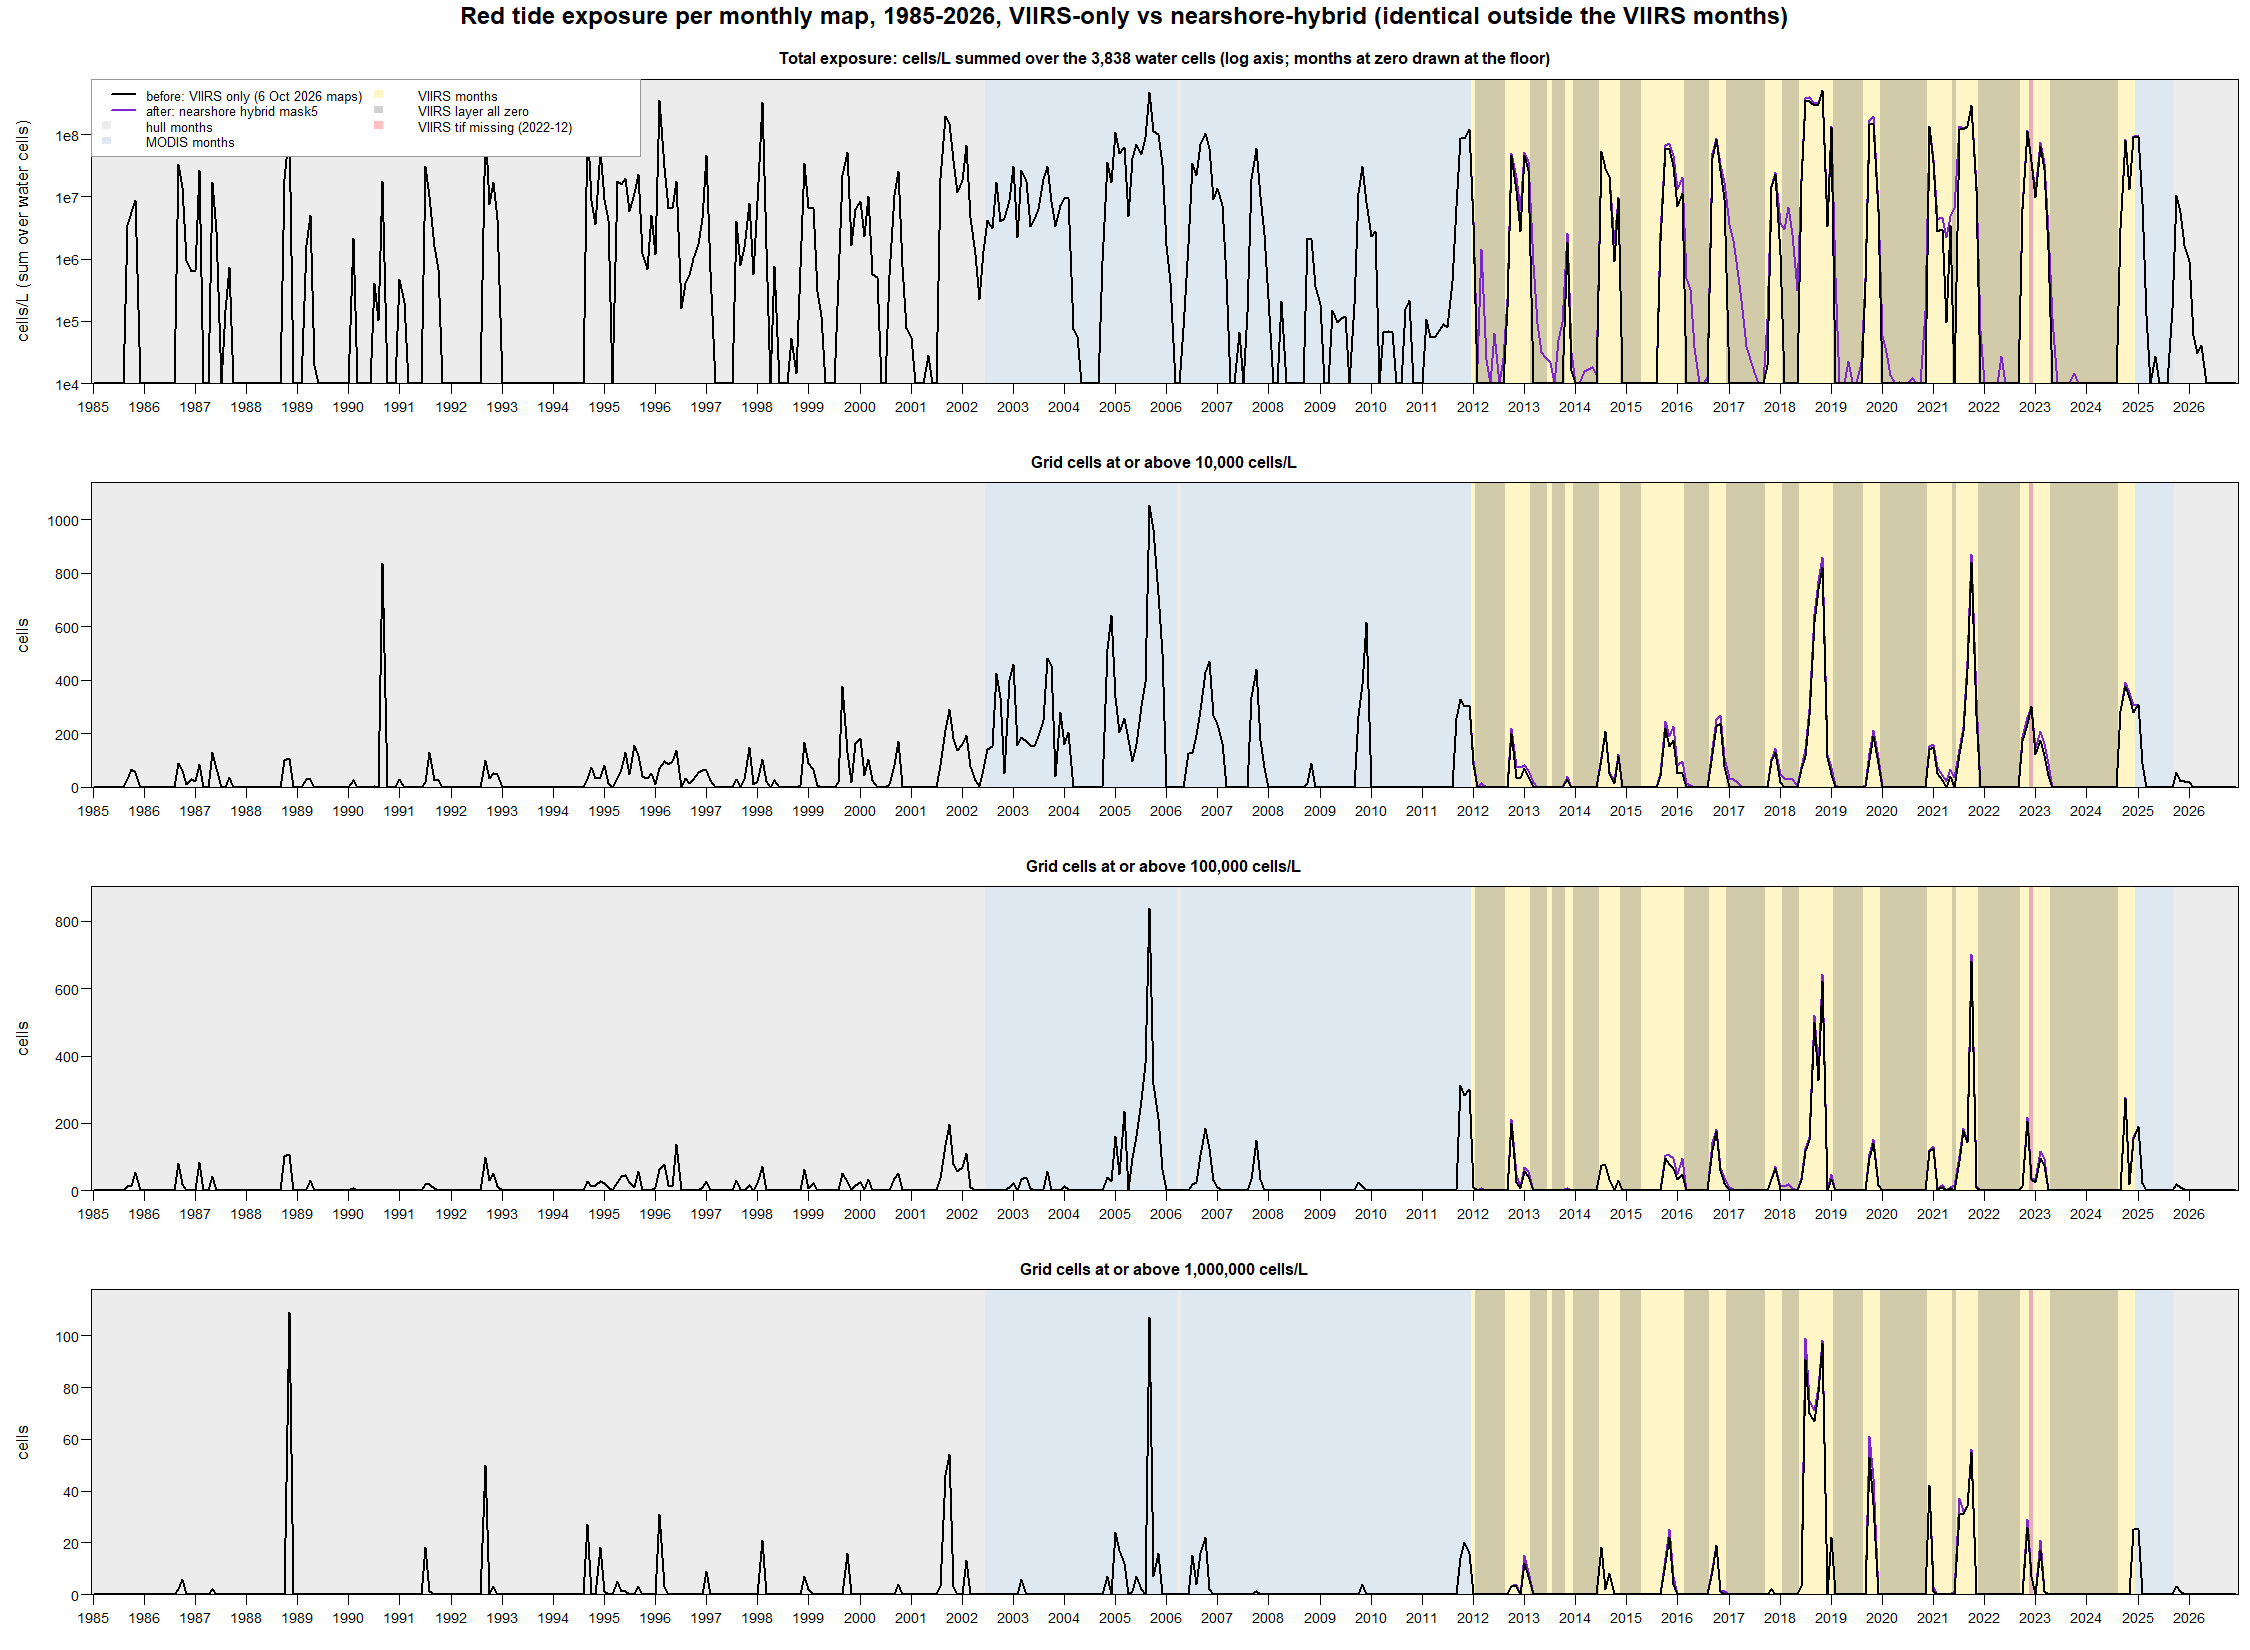
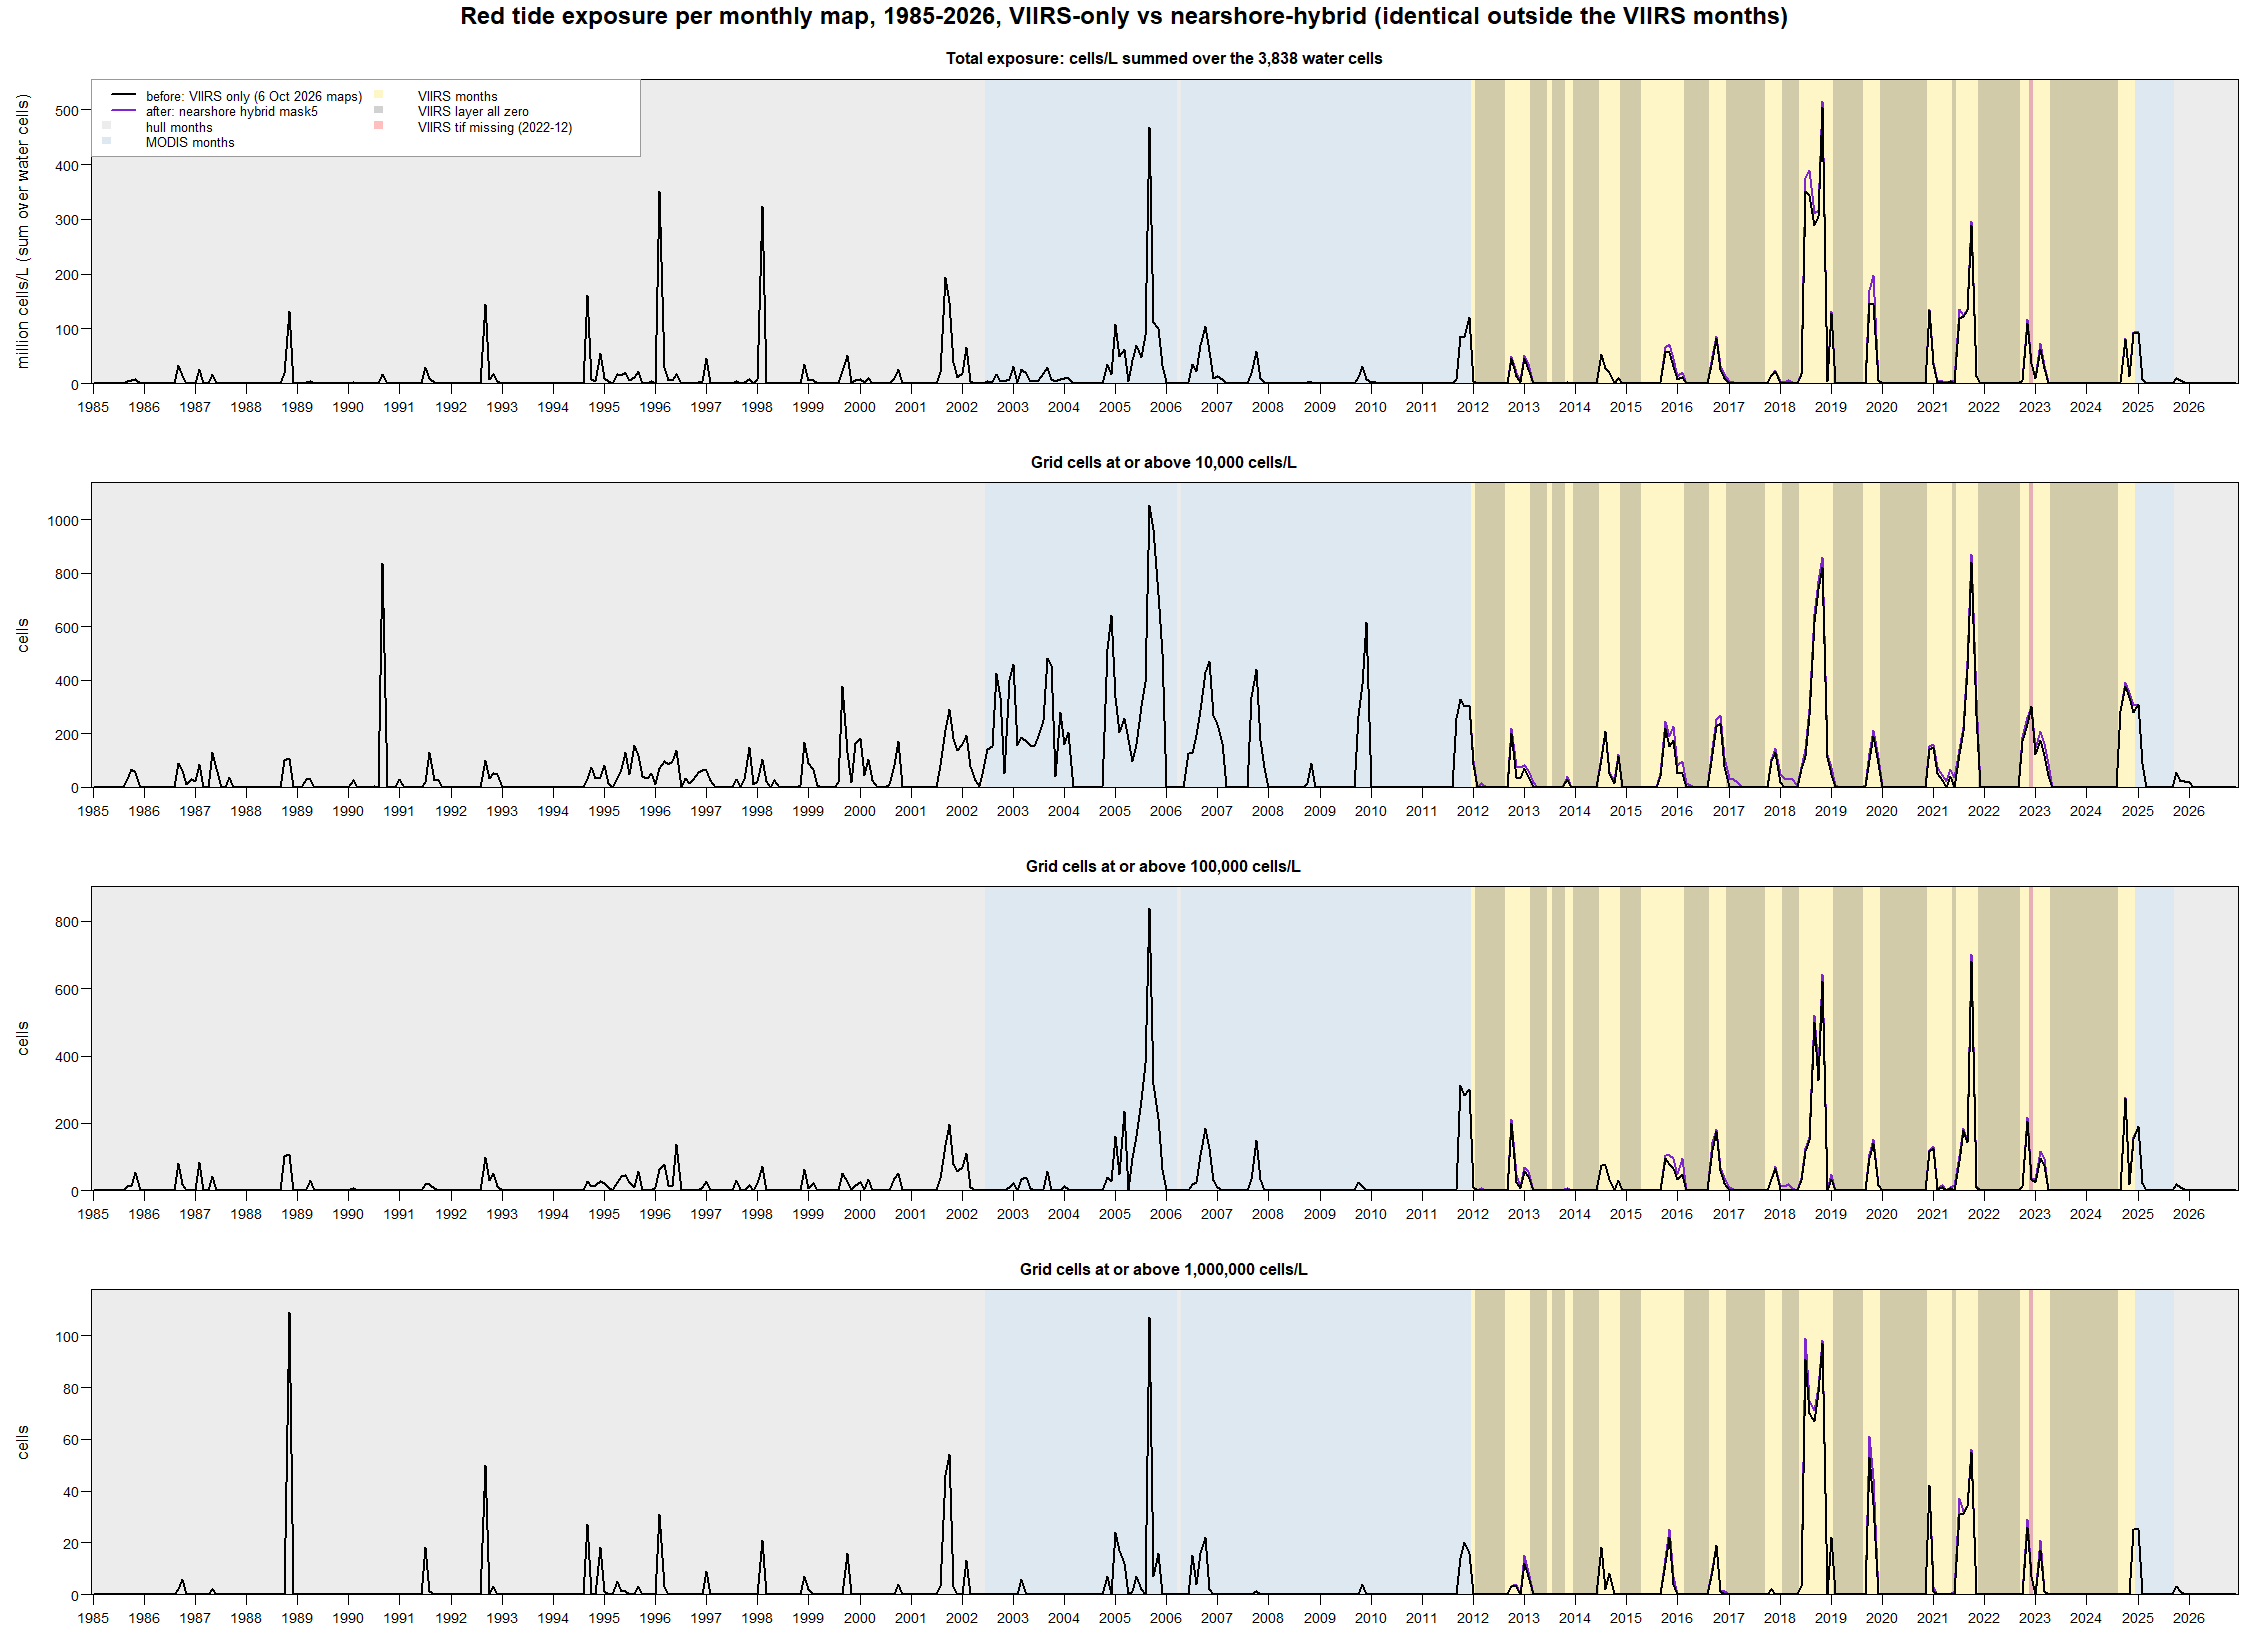
qa: draw total exposure on a linear axis (millions of cells/L) in the issue #11 exposure figures
Holden asked for a normal scale on the top panel of figs 4 and 5; the log axis and its floor for zero months are gone. Tables unchanged.

diff --git a/docs/issue11_nearshore-hybrid-pipeline/README.md b/docs/issue11_nearshore-hybrid-pipeline/README.md
@@ -44,7 +44,7 @@ The `compare` stage reads the combined stacks and `clipping_source.csv` of the t
 | `tables/exposure_months_issue11.csv` | all 504 months 1985-2026, before and after: total exposure (cells/L summed over the 3,838 water cells), cells and km2 at or above 10,000 / 100,000 / 1,000,000 cells/L, max, clip source, whether the hybrid changed the month |
 | `tables/exposure_annual_issue11.csv`, `tables/exposure_climatology_issue11.csv`, `tables/exposure_groups_issue11.csv` | the same summed by year (cell-months), averaged by calendar month over 2012-2024, and summed by month group (all 504; hull, MODIS, VIIRS; zeroed, headline, VIIRS-positive fitted) |
 | `tables/exposure_cells_issue11.csv` | per water cell over the 155 VIIRS months: cumulative exposure and cell-months at or above 100,000 and 1,000,000 cells/L, before and after |
-| `figures/fig4_exposure_1985-2026_issue11.png`, `figures/fig5_exposure_2012-2024_issue11.png` | total exposure (log axis) and the three cell counts per month, before vs after, over the full record (clip source shaded) and over the VIIRS era (all-zero VIIRS months shaded) |
+| `figures/fig4_exposure_1985-2026_issue11.png`, `figures/fig5_exposure_2012-2024_issue11.png` | total exposure (millions of cells/L, linear axis) and the three cell counts per month, before vs after, over the full record (clip source shaded) and over the VIIRS era (all-zero VIIRS months shaded) |
 | `figures/fig6_exposure_cells_issue11.png` | per cell over the VIIRS months: cumulative exposure and cell-months at or above 100,000 cells/L, before, after and the difference |
 | `comments/exposure_summary.md` | the exposure tables in markdown, as written by the script |
 | `figures/fig1_headline_before_after_issue11.pdf` | the 16 headline months of #6, one row each: samples (border = VIIRS cell status) \| before (VIIRS-clipped) \| after (hybrid, changed cells in orange) \| hull-clipped with the set shaded; 2 pages |
